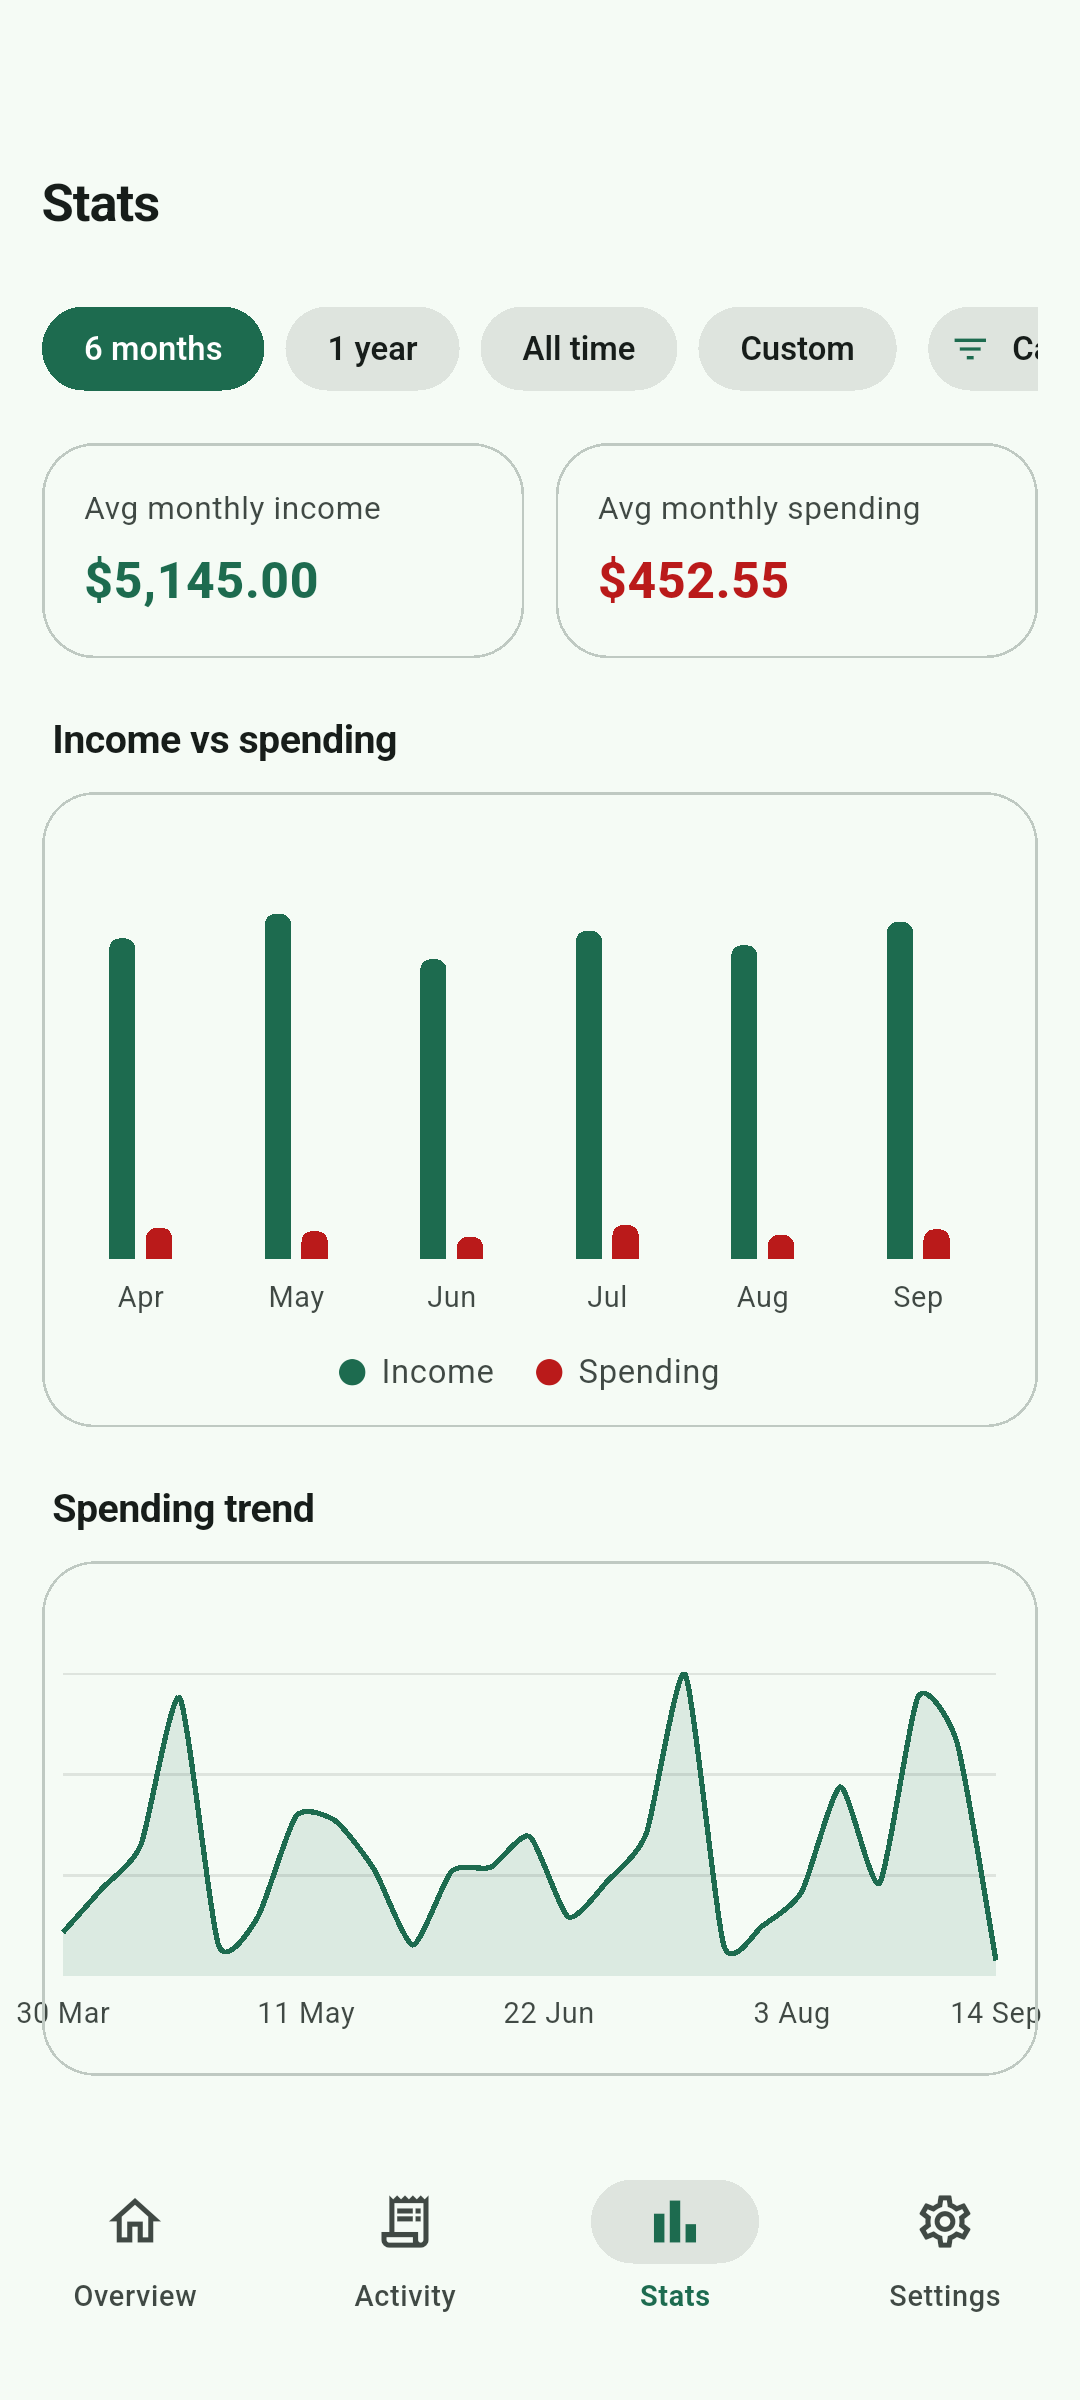
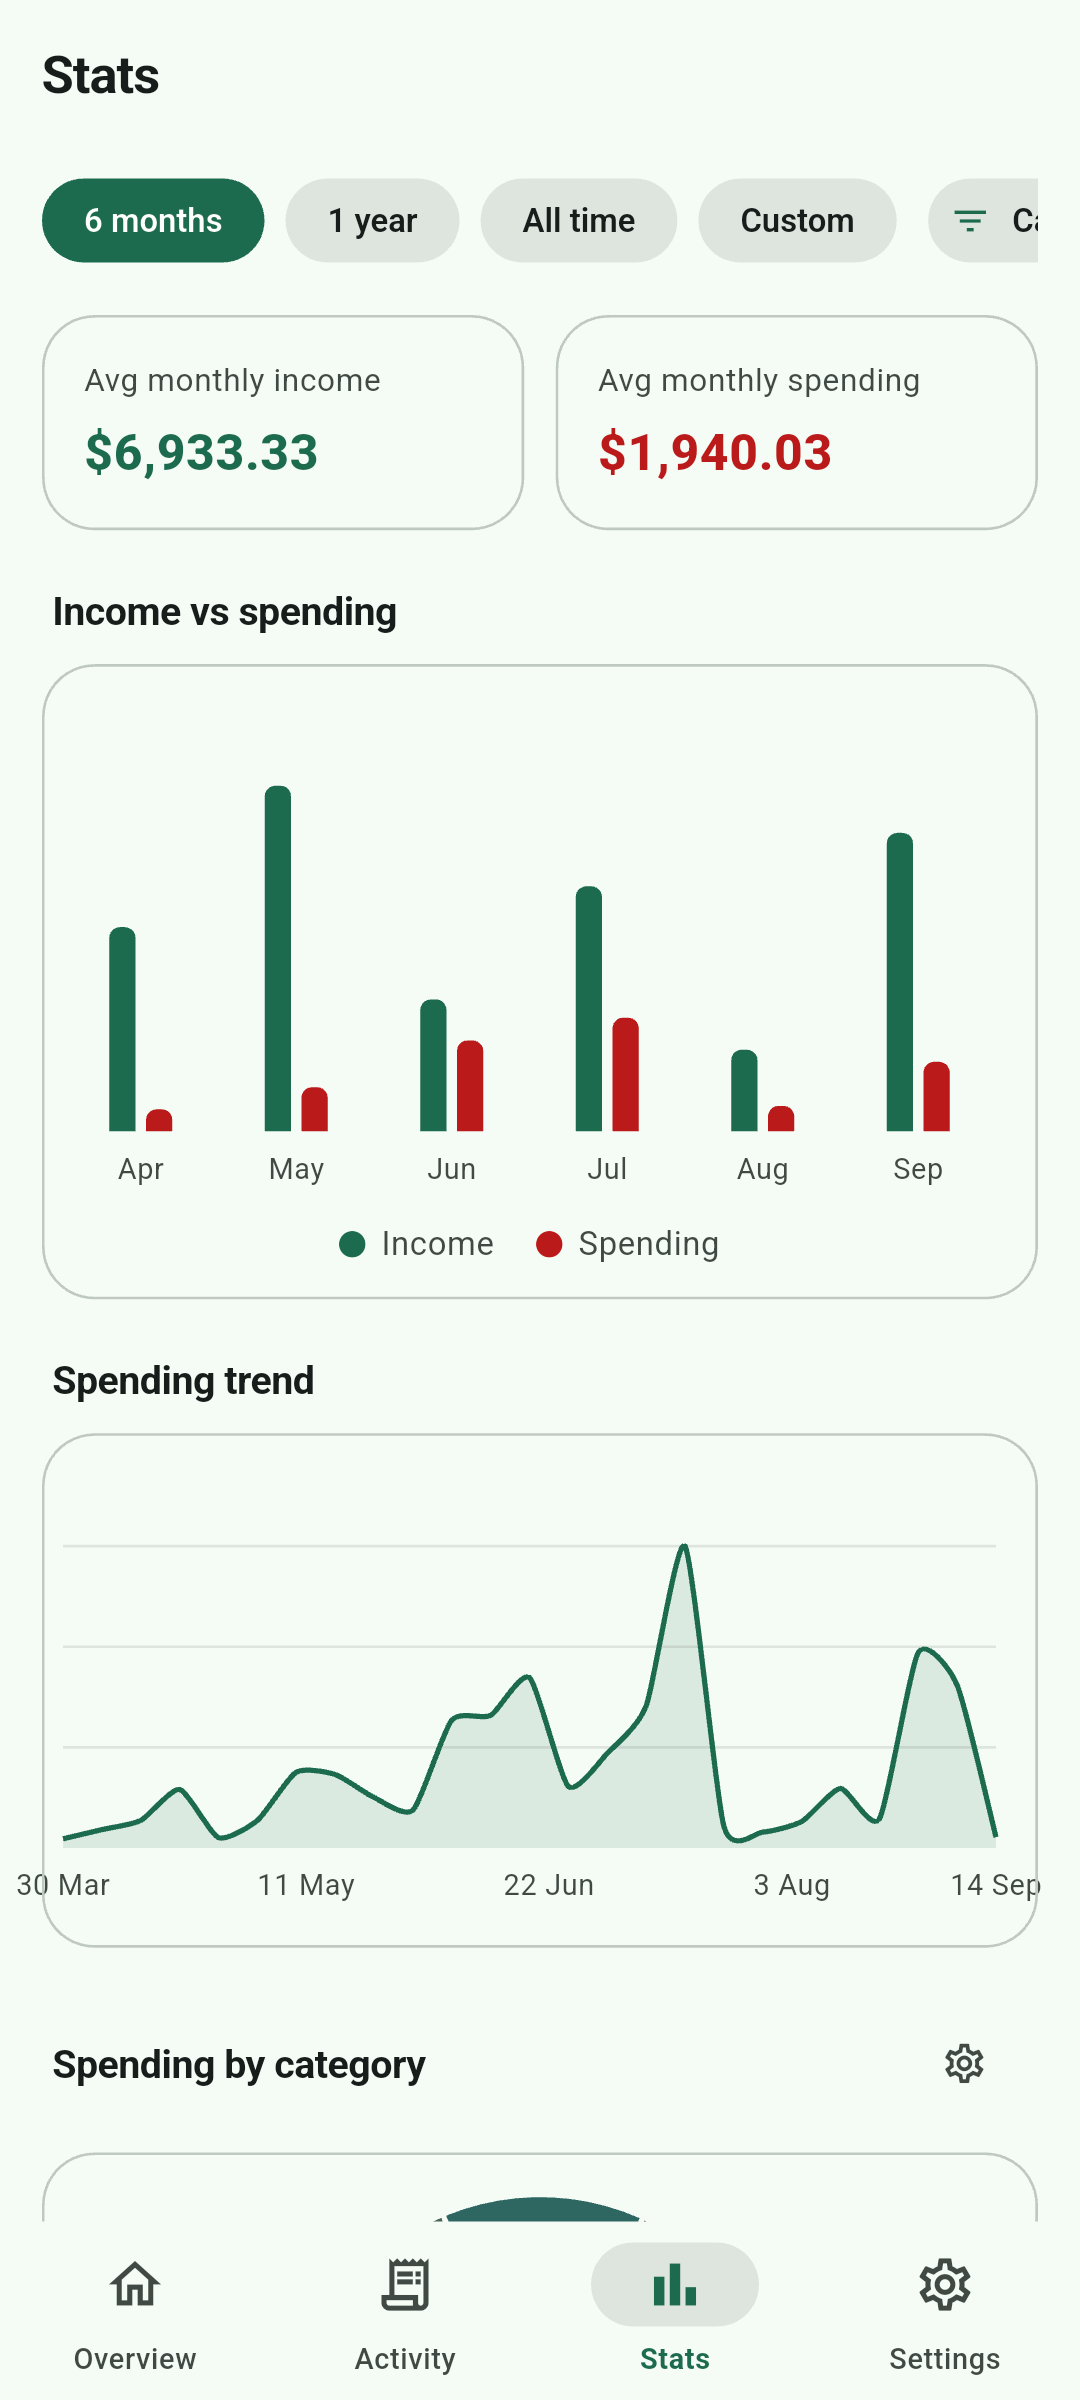
Increase stats screenshot variation [skip ci]

diff --git a/integration_test/screenshot_test.dart b/integration_test/screenshot_test.dart
@@ -109,8 +109,8 @@ List<Transaction> _fakeTransactions() {
   final now = DateTime.now();
   final startOfMonth = DateTime(now.year, now.month, 1);
   final names = _merchants.keys.toList();
-  const monthlyIncome = [5350.0, 4980.0, 5210.0, 4760.0, 5480.0, 5090.0];
-  const monthlySpendScale = [1.12, 0.91, 1.28, 0.84, 1.05, 1.18];
+  const monthlyIncome = [9500.0, 2600.0, 7800.0, 4200.0, 11000.0, 6500.0];
+  const monthlySpendScale = [5.2, 1.9, 8.5, 6.8, 3.3, 1.65];
   var index = 0;
 
   // Guarantee one forced-spend transaction per merchant lands within the
